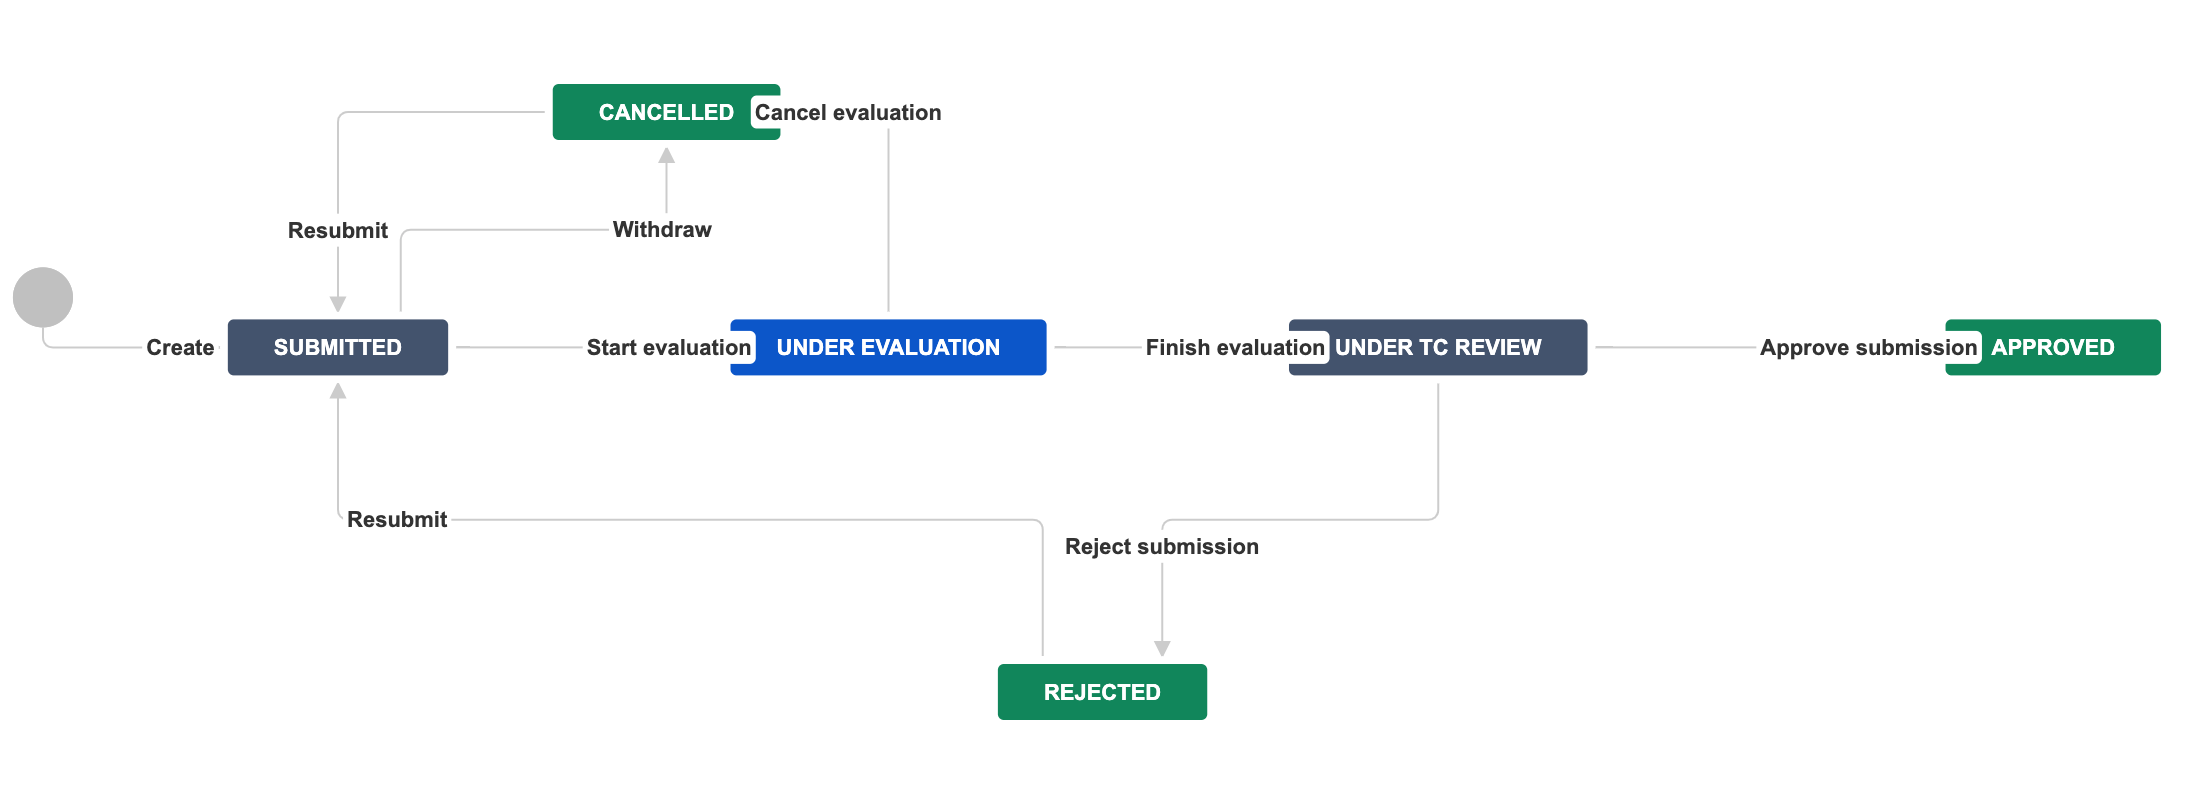
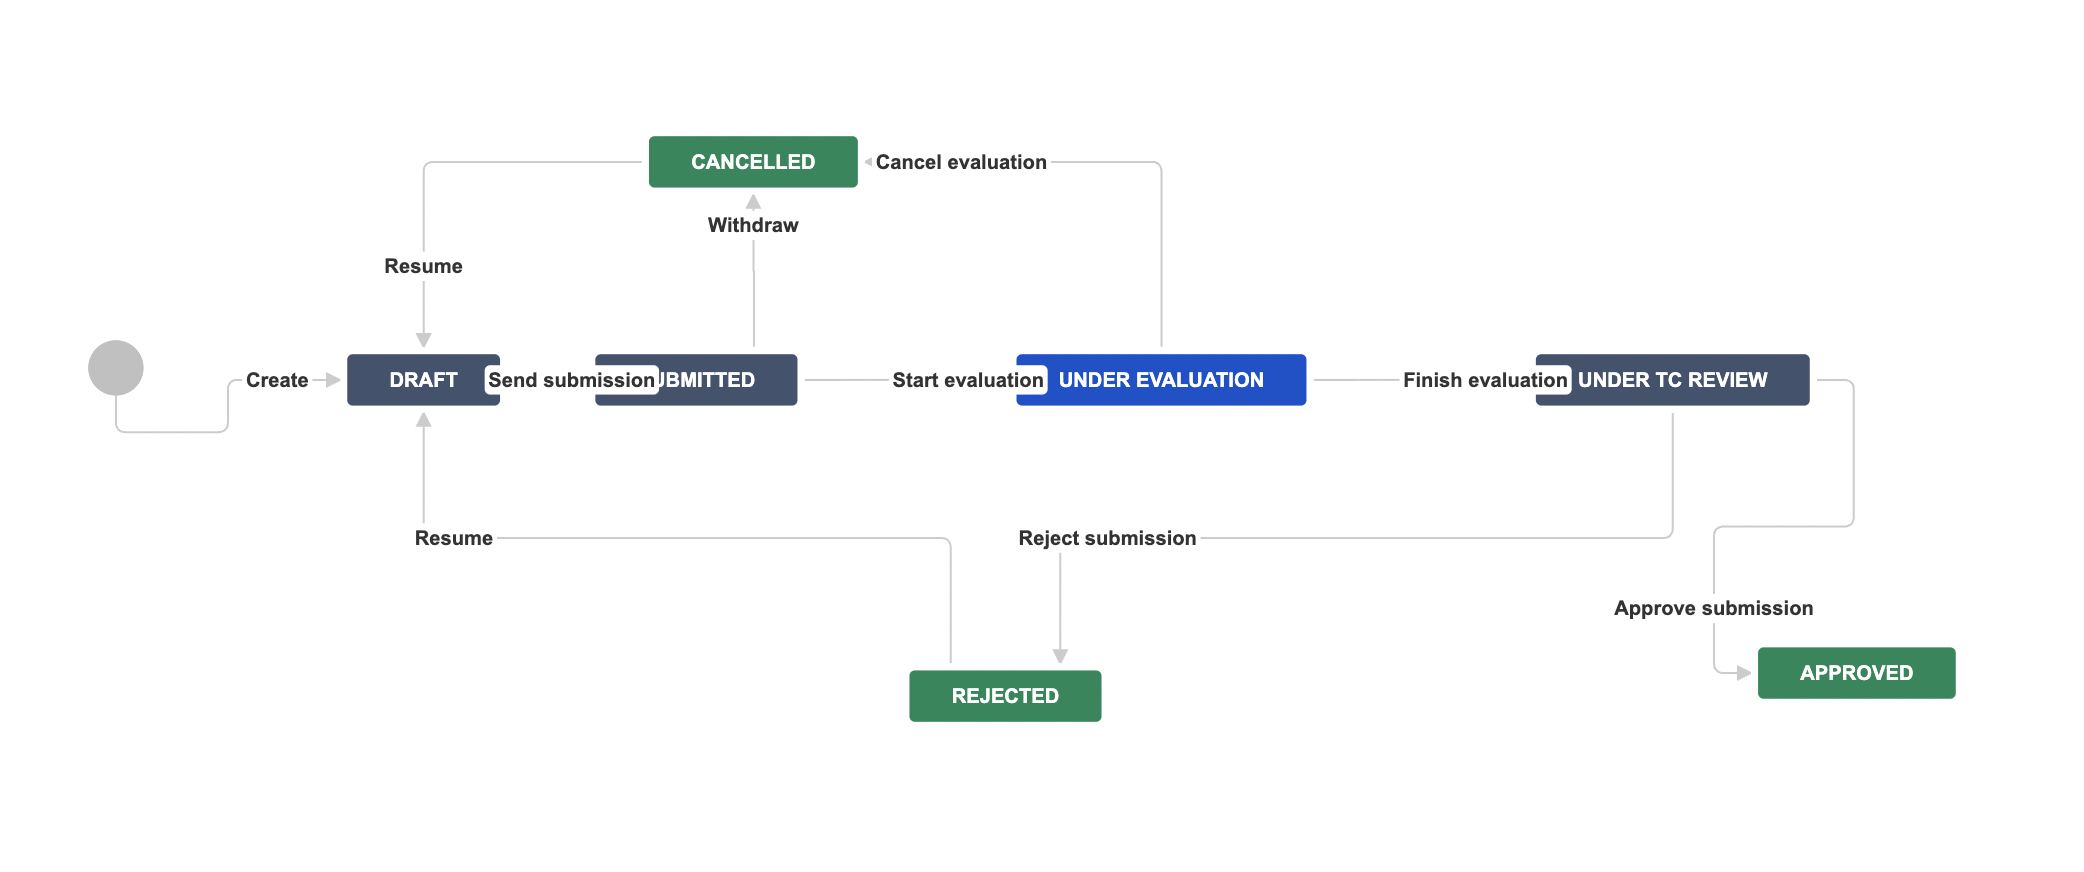
Update workflow with DRAFT status

diff --git a/NEW_MOD_TECH_EVAL_JIRA.md b/NEW_MOD_TECH_EVAL_JIRA.md
@@ -10,16 +10,18 @@ This document outlines the JIRA Project and Workflow used by the New Module Tech
 ## JIRA Workflow
 ![Techical Council Requests Workflow](assets/workflow.png)
 
-**SUBMITTED** Initial status for newly created submissions.
+**DRAFT** Initial status for newly created submissions.
+
+**SUBMITTED** Once the submission is ready for the TC review, the submitter transitions the issue to this state.
 
 **UNDER EVALUATION** Once the sumbmission is reviewed by the TC and an evaluation group is formed, the TC indicates this by transitioning the issue to this state.
 
 **CANCELLED** If the submitter decides to withdraw the submission (alone or together with the evalation group), he/she transitions the issue to this state.
-The submisison may be re-opened at a later time.
+The submisison may be resumed at a later time.
 
 **UNDER TC REVIEW** Once the evaluation is complete, the evalution group communicates the results and transitions the issue to this state.
 
 **APPROVED** Once the evalution results are reviewed by the TC and the submission is approved, the TC transtions the issue to this state.
 
 **REJECTED** Once the evalution results are reviewed by the TC and the submission is rejected, the TC transtions the issue to this state. 
-The submitter may re-submit the submission once the failed criteria are addressed.
+The submitter may resume the submission once the failed criteria are addressed.
